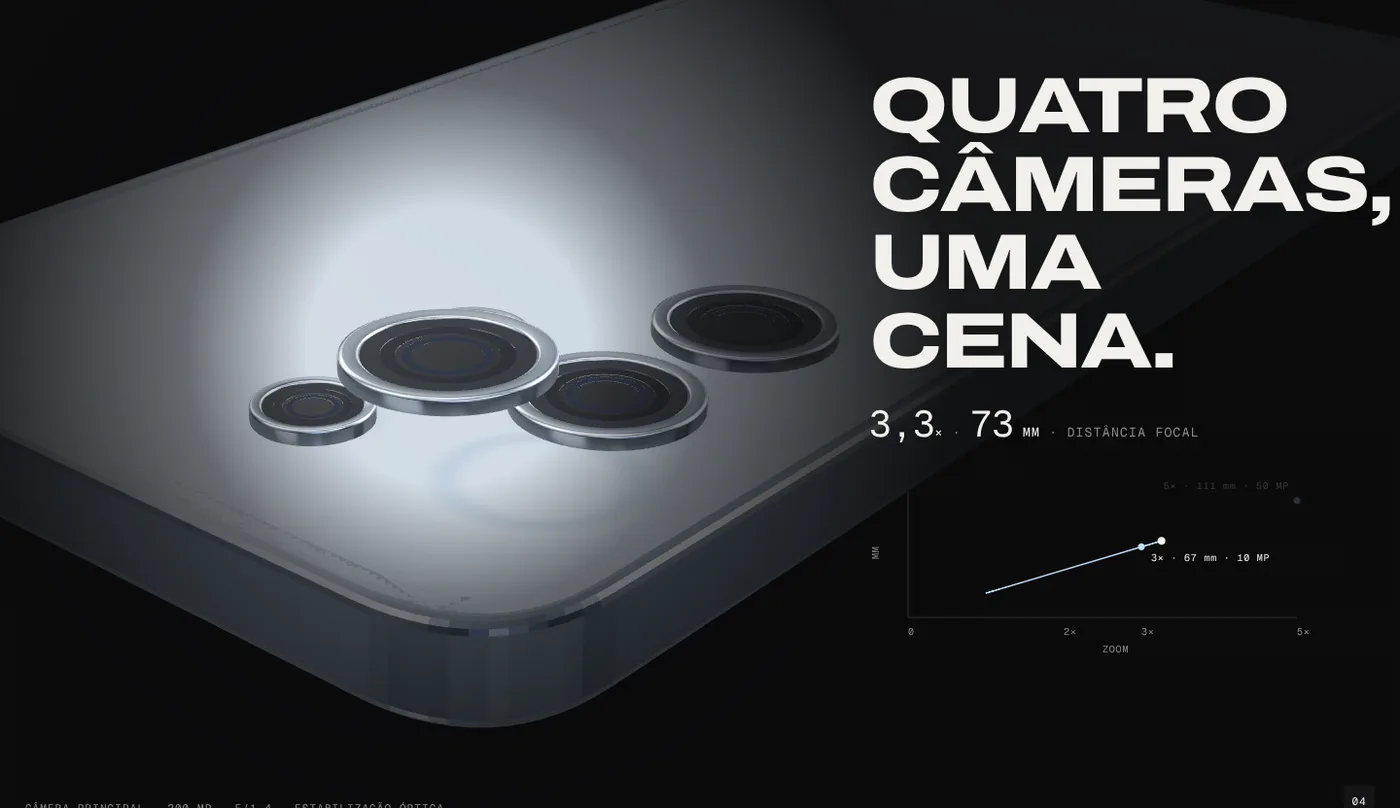
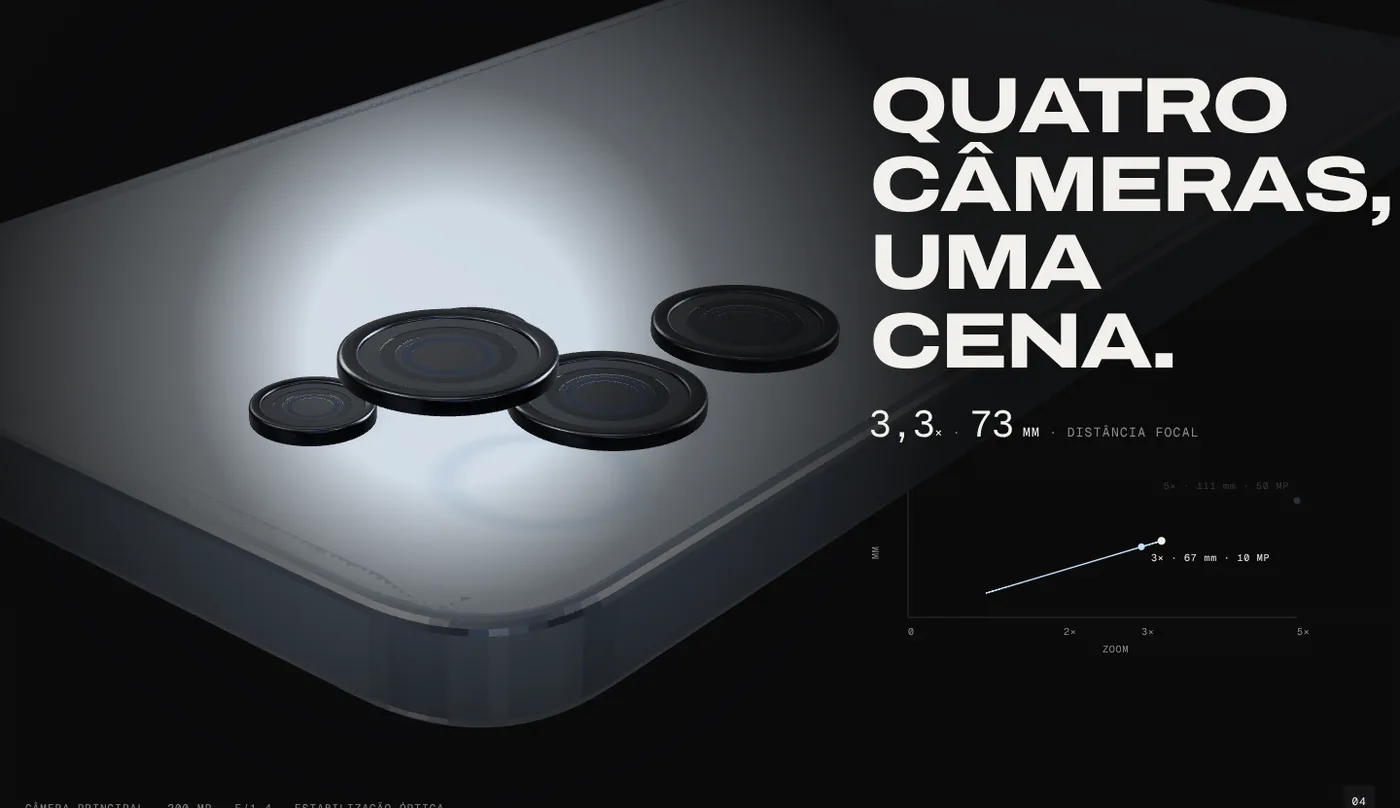
Karol x Samsung: anéis das lentes em grafite, como no S26 Ultra
Claude-Session: https://claude.ai/code/session_01AashNDEhp9kfmbD746zfKi

Changed region(s): [[0.1536, 0.3403, 0.6143, 0.5569]]

diff --git a/Projetos/landing page Karol Sevilla x Samsung/src/three/phone.js b/Projetos/landing page Karol Sevilla x Samsung/src/three/phone.js
@@ -62,9 +62,9 @@ export function buildPhone({ quality }) {
   const pcb = new THREE.MeshStandardMaterial({ color: '#0f1f1a', roughness: 0.55, metalness: 0.15 });
   const chip = new THREE.MeshStandardMaterial({ color: '#16171a', roughness: 0.5, metalness: 0.3 });
   const tampa = new THREE.MeshStandardMaterial({ color: '#9aa1a9', roughness: 0.35, metalness: 0.95 });
-  // lentes no acabamento dos Galaxy Ultra: anel de metal polido (da cor da moldura), borda preta,
+  // lentes no acabamento do S26 Ultra: anel de metal grafite polido, borda preta,
   // os elementos ópticos aparecendo por dentro e uma cúpula de vidro escuro por cima
-  const anel = new THREE.MeshStandardMaterial({ color: '#c3d3e4', roughness: 0.14, metalness: 1, side: THREE.DoubleSide });
+  const anel = new THREE.MeshStandardMaterial({ color: '#3b3f46', roughness: 0.16, metalness: 1, side: THREE.DoubleSide }); // grafite polido, como no S26 Ultra
   const bordaPreta = new THREE.MeshStandardMaterial({ color: '#07080a', roughness: 0.7, metalness: 0.1 });
   const elemento = new THREE.MeshStandardMaterial({ color: '#141a24', roughness: 0.28, metalness: 0.85 });
   const elementoAzul = new THREE.MeshStandardMaterial({ color: '#24324a', roughness: 0.18, metalness: 0.95, emissive: '#0a1226', emissiveIntensity: 0.6 });
